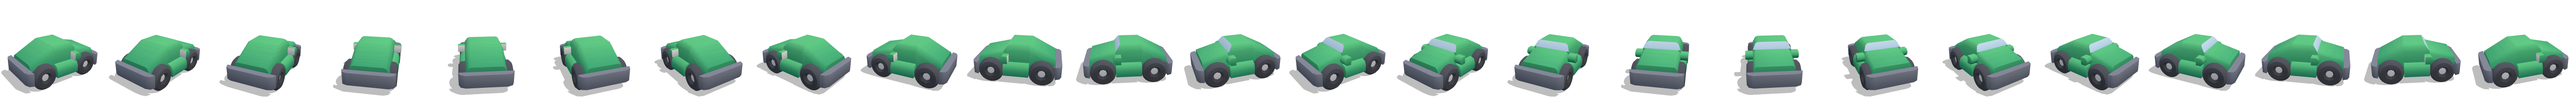
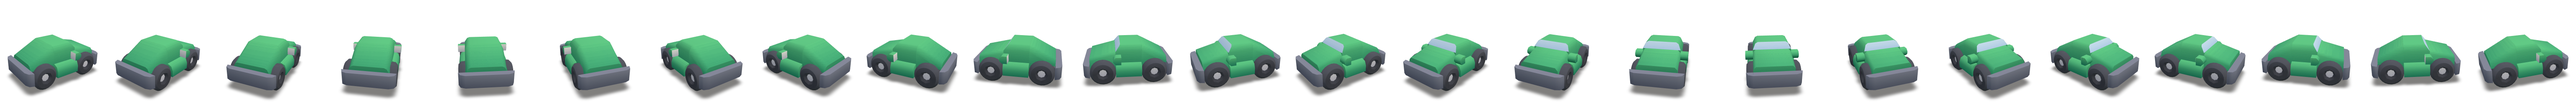
fix(lobby): match the rotating car-picker shadow to the in-race silhouette
The lobby car picker (and the display lobby roster) baked a soft, light
ShadowMaterial cast shadow from an offset key light — a faint gray blob spread
off to one side, nothing like the shadow the car has while racing.

Reproduce the engine's car shadow (SceneRenderer._bakeCarShadow) in the thumbnail
bake instead: render the model's top-down SILHOUETTE to a texture, blur it for a
tight penumbra, and lay it on a flat quad parented to the turntable so it spins
true under the car at every yaw. Same constants as the engine — overscan 1.45,
warm near-black 0x171513, opacity 0.55, blur TW*0.022. The key light now only
lights the body (no cast shadow), matching the in-race decoupling where cars carry
a baked ground blob rather than the sun shadow.

Worked the overhead-camera projection so the silhouette isn't mirrored or flipped
(flip both readback axes + rotation.x = +PI/2; verified across turntable frames).
Re-baked all four roster thumbnails (stills + spin strips).

Claude-Session: https://claude.ai/code/session_01Dq2WDUeRN8UPyhmjozeyCX

diff --git a/scripts/capture-car-thumbs.js b/scripts/capture-car-thumbs.js
@@ -13,7 +13,9 @@
 //
 // Framing is fixed from the model's bounding SPHERE (rotation-invariant), so the
 // car holds the same size/position through the whole spin instead of jittering.
-// A ShadowMaterial ground catches a soft contact shadow that turns with the car.
+// The ground shadow reproduces the in-race look (SceneRenderer._bakeCarShadow): the
+// car's baked top-down SILHOUETTE, tinted warm near-black with a tight penumbra,
+// laid flat under the car and parented to the turntable so it spins with the car.
 //
 //   node scripts/capture-car-thumbs.js                    # all roster cars
 //   node scripts/capture-car-thumbs.js --name vehicle-racer-low
@@ -100,26 +102,19 @@ async function main() {
         renderer.setSize(size, size, false);
         renderer.outputColorSpace = THREE.SRGBColorSpace;
         renderer.setClearColor(0x000000, 0);
-        renderer.shadowMap.enabled = true;
-        renderer.shadowMap.type = THREE.PCFSoftShadowMap;
 
         const scene = new THREE.Scene();
-        // Toy lighting matched to SceneRenderer / capture-item-icon.js.
+        // Toy lighting matched to SceneRenderer / capture-item-icon.js. The key only LIGHTS
+        // the body now — it casts no shadow (cars don't cast the sun shadow in-race either);
+        // the ground shadow below is the car's baked top-down silhouette, like the engine.
         scene.add(new THREE.HemisphereLight(0xffffff, 0x9aa68f, 2.2));
         const key = new THREE.DirectionalLight(0xfff1d0, 1.4);
         key.position.set(6, 12, 4);
-        key.castShadow = true;
-        key.shadow.mapSize.set(2048, 2048);
-        key.shadow.camera.near = 0.5; key.shadow.camera.far = 60;
-        const s = 0.9;
-        Object.assign(key.shadow.camera, { left: -s, right: s, top: s, bottom: -s });
-        key.shadow.bias = -0.0008;
         scene.add(key);
 
         const gltf = await new Promise((resolve, reject) =>
           new GLTFLoader().load(`/assets/toycar/${name}.glb`, resolve, undefined, reject));
         const model = gltf.scene;
-        model.traverse((o) => { if (o.isMesh) { o.castShadow = true; o.receiveShadow = false; } });
 
         // Centre on origin so the turntable spins in place.
         const box0 = new THREE.Box3().setFromObject(model);
@@ -130,15 +125,79 @@ async function main() {
         pivot.add(model);
         scene.add(pivot);
 
-        // Ground shadow-catcher just under the wheels (model recentred → minY shifts).
-        const minY = box0.min.y - center0.y;
-        const ground = new THREE.Mesh(
-          new THREE.PlaneGeometry(8, 8),
-          new THREE.ShadowMaterial({ opacity: 0.26 }));
-        ground.rotation.x = -Math.PI / 2;
-        ground.position.y = minY + 0.001;
-        ground.receiveShadow = true;
-        scene.add(ground);
+        // Ground shadow — reproduce the in-race look (SceneRenderer._bakeCarShadow). The
+        // car's shadow in the game is NOT a cast shadow: it's the car's own top-down
+        // SILHOUETTE (cabin + wheels) baked flat on the ground, tinted warm near-black with
+        // a tight penumbra, sitting straight under the car. Bake the same silhouette here —
+        // same overscan / colour / opacity / blur constants — so the lobby turntable's shadow
+        // matches the one players see while racing instead of a soft offset cast blob.
+        const SHADOW_OVERSCAN = 1.45;   // keep in sync with SceneRenderer.SHADOW_OVERSCAN
+        const SHADOW_COLOR = 0x171513;  // SceneRenderer.UNDER_AO_COLOR (warm near-black)
+        const SHADOW_OPACITY = 0.55;    // SceneRenderer.UNDER_AO_OPACITY base (no brake-dive load on a turntable)
+
+        // Footprint of the centred model (== the engine's footW/footL: a full bbox at rest).
+        const fbb = new THREE.Box3().setFromObject(model);
+        const footW = (fbb.max.x - fbb.min.x) || 0.1, footL = (fbb.max.z - fbb.min.z) || 0.1;
+        const fcx = (fbb.min.x + fbb.max.x) / 2, fcz = (fbb.min.z + fbb.max.z) / 2;
+        const hw = (footW / 2) * SHADOW_OVERSCAN, hl = (footL / 2) * SHADOW_OVERSCAN;
+
+        // Render a flat-white top-down mask of the model on transparent, framed to the
+        // footprint × overscan, then blur it on a 2D canvas for the soft edge — exactly the
+        // engine's bake. Length runs up the texture (+Z → vertical), width across (+X).
+        const ocam = new THREE.OrthographicCamera(-hw, hw, hl, -hl, 0.01, (fbb.max.y - fbb.min.y) + 2);
+        ocam.position.set(fcx, fbb.max.y + 1, fcz);
+        ocam.up.set(0, 0, 1);
+        ocam.lookAt(fcx, fbb.min.y, fcz);
+        const TW = 128, TH = Math.max(16, Math.round(TW * (hl / hw)));
+        const rt = new THREE.WebGLRenderTarget(TW, TH);
+        const maskScene = new THREE.Scene();
+        const maskModel = model.clone(true);
+        maskScene.add(maskModel);
+        maskScene.overrideMaterial = new THREE.MeshBasicMaterial({ color: 0xffffff }); // flat unlit → pure silhouette
+        renderer.setRenderTarget(rt);
+        renderer.clear();
+        renderer.render(maskScene, ocam);
+        const px = new Uint8Array(TW * TH * 4);
+        renderer.readRenderTargetPixels(rt, 0, 0, TW, TH, px);
+        renderer.setRenderTarget(null);
+        rt.dispose();
+        // White rgb everywhere (so blurring fades ALPHA only — no dark fringe); alpha from the
+        // mask. readRenderTargetPixels reads bottom-to-top, and the overhead camera's screen-X
+        // runs opposite world +X (up=+Z, looking −Y), so flip BOTH axes to land a faithful
+        // top-down map in the canvas (row 0 = world +Z up, col 0 = world −X). With the quad's
+        // default flipY this maps u→world +X and v→world +Z, so the silhouette lies exactly
+        // over the car (no nose↔tail or left↔right swap).
+        const mask = document.createElement('canvas'); mask.width = TW; mask.height = TH;
+        const mctx = mask.getContext('2d');
+        const img = mctx.createImageData(TW, TH);
+        for (let y = 0; y < TH; y++) {
+          for (let x = 0; x < TW; x++) {
+            const dst = (y * TW + x) * 4, src = ((TH - 1 - y) * TW + (TW - 1 - x)) * 4;
+            img.data[dst] = 255; img.data[dst + 1] = 255; img.data[dst + 2] = 255;
+            img.data[dst + 3] = px[src + 3];
+          }
+        }
+        mctx.putImageData(img, 0, 0);
+        const soft = document.createElement('canvas'); soft.width = TW; soft.height = TH;
+        const softctx = soft.getContext('2d');
+        softctx.filter = `blur(${Math.max(2, Math.round(TW * 0.022))}px)`; // tight penumbra, same as the engine
+        softctx.drawImage(mask, 0, 0);
+        const shadowTex = new THREE.CanvasTexture(soft);
+        shadowTex.colorSpace = THREE.SRGBColorSpace;
+
+        // A flat quad under the wheels, sized to the footprint × overscan and parented to the
+        // turntable so the silhouette spins WITH the car (stays aligned at every yaw).
+        const shadow = new THREE.Mesh(
+          new THREE.PlaneGeometry(footW * SHADOW_OVERSCAN, footL * SHADOW_OVERSCAN),
+          new THREE.MeshBasicMaterial({
+            map: shadowTex, color: SHADOW_COLOR, transparent: true, opacity: SHADOW_OPACITY,
+            depthWrite: false, side: THREE.DoubleSide,
+          }));
+        // +π/2 lays the quad flat with local +y → world +Z and local +x → world +X, so the
+        // top-down silhouette sits true under the car; DoubleSide keeps it visible from above.
+        shadow.rotation.x = Math.PI / 2;
+        shadow.position.set(fcx, fbb.min.y + 0.001, fcz);
+        pivot.add(shadow);
 
         // Fixed framing from the bounding sphere (rotation-invariant).
         const sphere = new THREE.Box3().setFromObject(model).getBoundingSphere(new THREE.Sphere());
